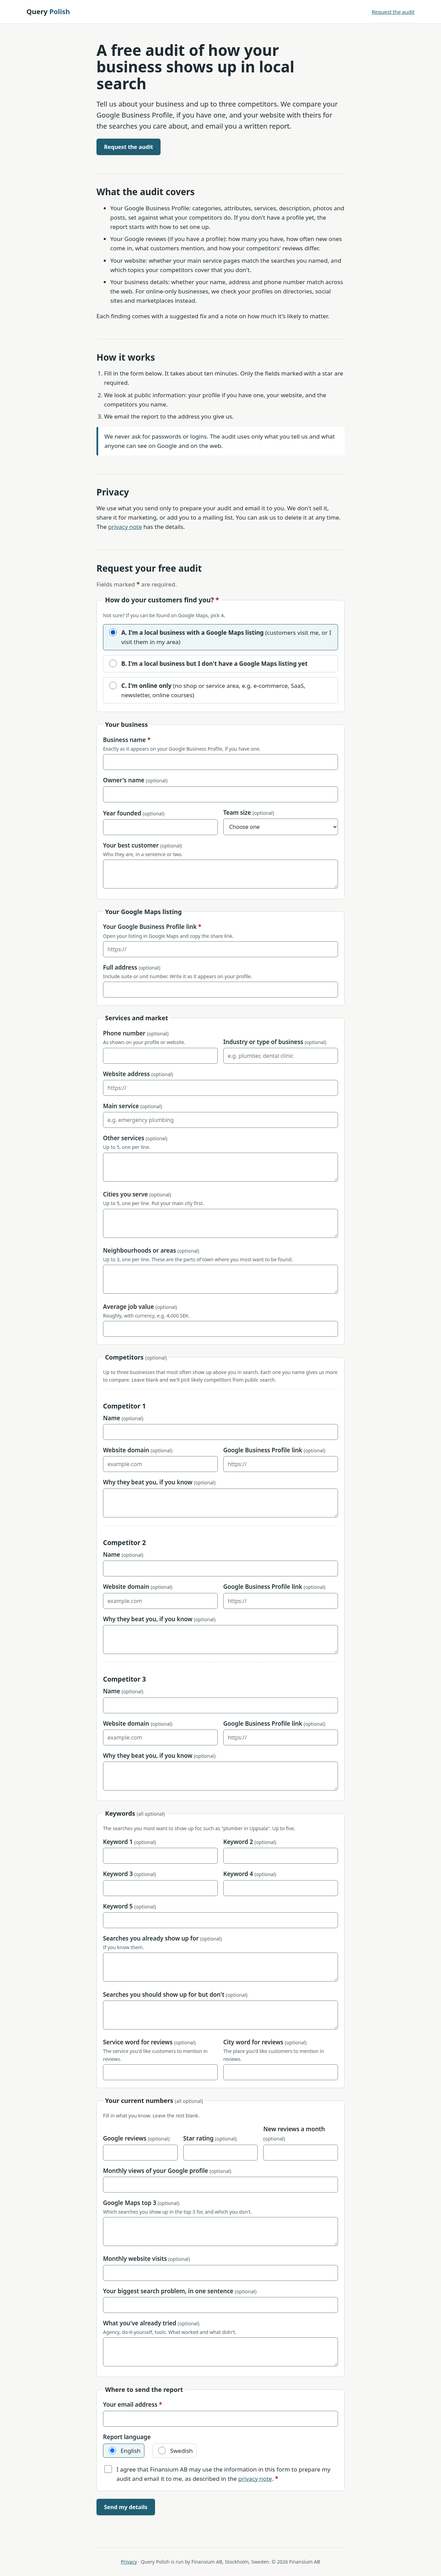
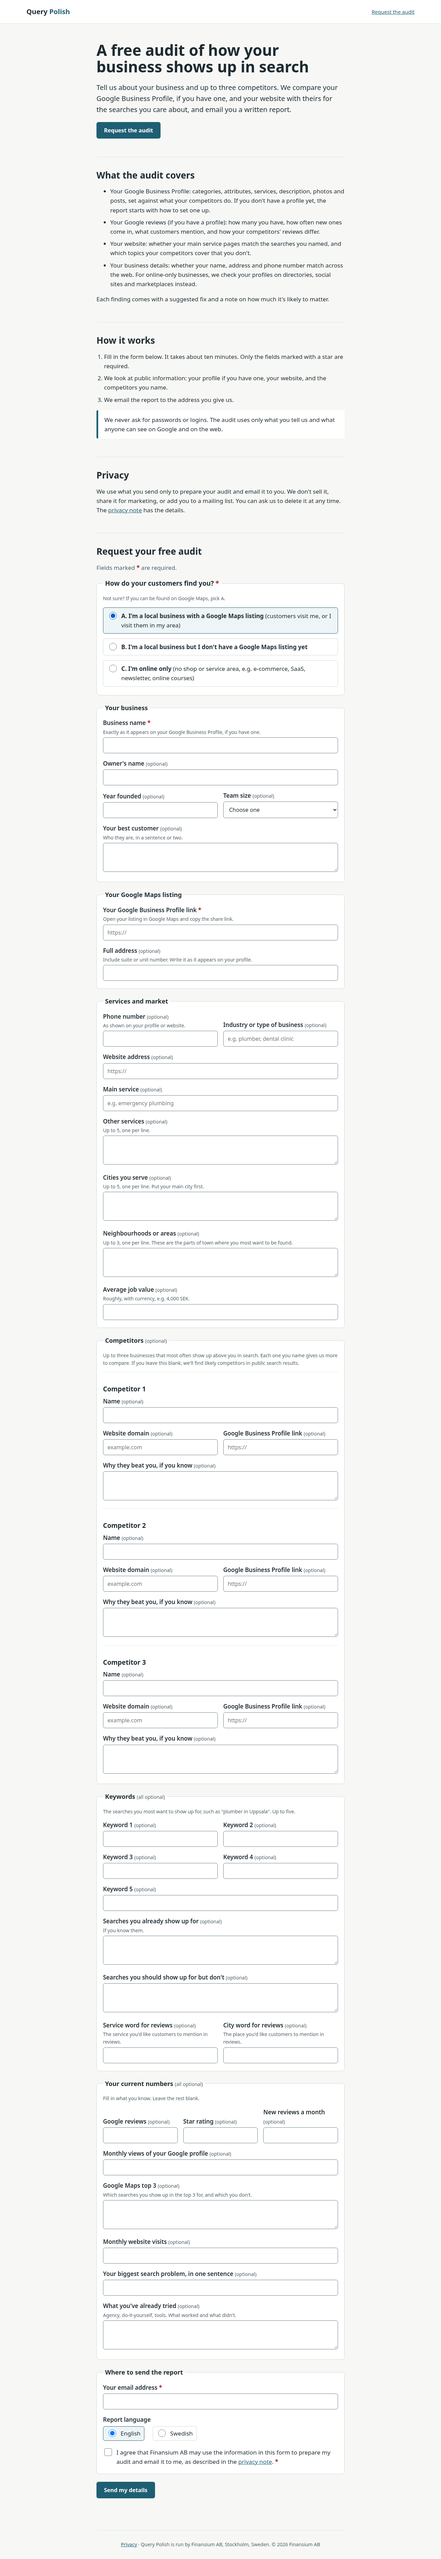
Drop 'local' from title/H1/meta (Warren); final competitors hint (Zinsser)

diff --git a/docs/index.html b/docs/index.html
@@ -3,8 +3,8 @@
 <head>
 <meta charset="utf-8">
 <meta name="viewport" content="width=device-width,initial-scale=1">
-<title>Query Polish: a free local search audit</title>
-<meta name="description" content="A free audit of how your business shows up in Google Maps and local search, compared with up to three competitors you choose. The report comes by email.">
+<title>Query Polish: a free search audit for your business</title>
+<meta name="description" content="A free audit of how your business shows up in Google search and Google Maps, compared with up to three competitors you choose. The report comes by email.">
 <link rel="canonical" href="https://querypolish.com/">
 <link rel="icon" href="/favicon.svg" type="image/svg+xml">
 <script>document.documentElement.className="js"</script>
@@ -15,7 +15,7 @@
 <header><a class="logo" href="/">Query <span>Polish</span></a><a class="navlink" href="#audit">Request the audit</a></header>
 <main id="main">
 <section>
-<h1>A free audit of how your business shows up in local search</h1>
+<h1>A free audit of how your business shows up in search</h1>
 <p class="lead">Tell us about your business and up to three competitors. We compare your Google Business Profile, if you have one, and your website with theirs for the searches you care about, and email you a written report.</p>
 <p><a class="btn" href="#audit">Request the audit</a></p>
 </section>
@@ -57,7 +57,7 @@
 <fieldset data-branch="local_no_listing"><legend>Where you work</legend><p class="hint nojs-only">Fill in this part if you picked B above.</p><div class="f"><label for="address-or-service-area">Business address or service area <span class="req req-js" aria-hidden="true">*</span><span class="opt nojs-only">(required for this answer)</span><span class="hint" id="address-or-service-area-h">Your street address if customers visit you, or the area you cover if you visit them.</span></label><input id="address-or-service-area" name="Address or service area" type="text" data-breq aria-describedby="address-or-service-area-h" autocomplete="street-address"></div></fieldset>
 <fieldset data-branch="local_listing local_no_listing"><legend>Services and market</legend><p class="hint nojs-only">Fill in this part if you picked A or B above.</p><div class="grid2"><div class="f"><label for="phone">Phone number <span class="opt">(optional)</span><span class="hint" id="phone-h">As shown on your profile or website.</span></label><input id="phone" name="Phone" type="tel" aria-describedby="phone-h" autocomplete="tel"></div><div class="f"><label for="industry">Industry or type of business <span class="opt">(optional)</span></label><input id="industry" name="Industry" type="text" placeholder="e.g. plumber, dental clinic"></div></div><div class="f"><label for="website">Website address <span class="opt">(optional)</span></label><input id="website" name="Website" type="url" autocomplete="url" placeholder="https://"></div><div class="f"><label for="main-service">Main service <span class="opt">(optional)</span></label><input id="main-service" name="Main service" type="text" placeholder="e.g. emergency plumbing"></div><div class="f"><label for="other-services">Other services <span class="opt">(optional)</span><span class="hint" id="other-services-h">Up to 5, one per line.</span></label><textarea id="other-services" name="Other services" aria-describedby="other-services-h"></textarea></div><div class="f"><label for="cities-served">Cities you serve <span class="opt">(optional)</span><span class="hint" id="cities-served-h">Up to 5, one per line. Put your main city first.</span></label><textarea id="cities-served" name="Cities served" aria-describedby="cities-served-h"></textarea></div><div data-branch="local_listing"><div class="f"><label for="neighbourhoods">Neighbourhoods or areas <span class="opt">(optional)</span><span class="hint" id="neighbourhoods-h">Up to 3, one per line. These are the parts of town where you most want to be found.</span></label><textarea id="neighbourhoods" name="Neighbourhoods" aria-describedby="neighbourhoods-h"></textarea></div></div><div class="f"><label for="average-job-value">Average job value <span class="opt">(optional)</span><span class="hint" id="average-job-value-h">Roughly, with currency, e.g. 4,000 SEK.</span></label><input id="average-job-value" name="Average job value" type="text" aria-describedby="average-job-value-h"></div></fieldset>
 <fieldset data-branch="online_only"><legend>Your online business</legend><p class="hint nojs-only">Fill in this part if you picked C above.</p><div class="f"><label for="website-online">Website address <span class="req req-js" aria-hidden="true">*</span><span class="opt nojs-only">(required for this answer)</span></label><input id="website-online" name="Website (online)" type="url" data-breq autocomplete="url" placeholder="https://"></div><div class="f"><label for="what-you-sell">What you sell <span class="opt">(optional)</span><span class="hint" id="what-you-sell-h">Your main products or services, in a sentence or two.</span></label><textarea id="what-you-sell" name="What you sell" aria-describedby="what-you-sell-h"></textarea></div><div class="grid2"><div class="f"><label for="main-country">Main country <span class="opt">(optional)</span><span class="hint" id="main-country-h">Where most of your customers are.</span></label><input id="main-country" name="Main country" type="text" aria-describedby="main-country-h" autocomplete="country-name"></div><div class="f"><label for="main-language">Main language <span class="opt">(optional)</span><span class="hint" id="main-language-h">The language your customers search in.</span></label><input id="main-language" name="Main language" type="text" aria-describedby="main-language-h"></div></div></fieldset>
-<fieldset><legend>Competitors <span class="opt">(optional)</span></legend><p class="hint">Up to three businesses that most often show up above you in search. Each one you name gives us more to compare. Leave blank and we'll pick likely competitors from public search.</p><div class="comp"><h3>Competitor 1</h3><div class="f"><label for="competitor-1-name">Name <span class="opt">(optional)</span></label><input id="competitor-1-name" name="Competitor 1 name" type="text"></div><div class="grid2"><div class="f"><label for="competitor-1-domain">Website domain <span class="opt">(optional)</span></label><input id="competitor-1-domain" name="Competitor 1 domain" type="text" placeholder="example.com"></div><div data-branch="local_listing"><div class="f"><label for="competitor-1-gbp-url">Google Business Profile link <span class="opt">(optional)</span></label><input id="competitor-1-gbp-url" name="Competitor 1 GBP URL" type="url" placeholder="https://"></div></div></div><div class="f"><label for="competitor-1-why-they-beat-you">Why they beat you, if you know <span class="opt">(optional)</span></label><textarea id="competitor-1-why-they-beat-you" name="Competitor 1 why they beat you"></textarea></div></div><div class="comp"><h3>Competitor 2</h3><div class="f"><label for="competitor-2-name">Name <span class="opt">(optional)</span></label><input id="competitor-2-name" name="Competitor 2 name" type="text"></div><div class="grid2"><div class="f"><label for="competitor-2-domain">Website domain <span class="opt">(optional)</span></label><input id="competitor-2-domain" name="Competitor 2 domain" type="text" placeholder="example.com"></div><div data-branch="local_listing"><div class="f"><label for="competitor-2-gbp-url">Google Business Profile link <span class="opt">(optional)</span></label><input id="competitor-2-gbp-url" name="Competitor 2 GBP URL" type="url" placeholder="https://"></div></div></div><div class="f"><label for="competitor-2-why-they-beat-you">Why they beat you, if you know <span class="opt">(optional)</span></label><textarea id="competitor-2-why-they-beat-you" name="Competitor 2 why they beat you"></textarea></div></div><div class="comp"><h3>Competitor 3</h3><div class="f"><label for="competitor-3-name">Name <span class="opt">(optional)</span></label><input id="competitor-3-name" name="Competitor 3 name" type="text"></div><div class="grid2"><div class="f"><label for="competitor-3-domain">Website domain <span class="opt">(optional)</span></label><input id="competitor-3-domain" name="Competitor 3 domain" type="text" placeholder="example.com"></div><div data-branch="local_listing"><div class="f"><label for="competitor-3-gbp-url">Google Business Profile link <span class="opt">(optional)</span></label><input id="competitor-3-gbp-url" name="Competitor 3 GBP URL" type="url" placeholder="https://"></div></div></div><div class="f"><label for="competitor-3-why-they-beat-you">Why they beat you, if you know <span class="opt">(optional)</span></label><textarea id="competitor-3-why-they-beat-you" name="Competitor 3 why they beat you"></textarea></div></div></fieldset>
+<fieldset><legend>Competitors <span class="opt">(optional)</span></legend><p class="hint">Up to three businesses that most often show up above you in search. Each one you name gives us more to compare. If you leave this blank, we'll find likely competitors in public search results.</p><div class="comp"><h3>Competitor 1</h3><div class="f"><label for="competitor-1-name">Name <span class="opt">(optional)</span></label><input id="competitor-1-name" name="Competitor 1 name" type="text"></div><div class="grid2"><div class="f"><label for="competitor-1-domain">Website domain <span class="opt">(optional)</span></label><input id="competitor-1-domain" name="Competitor 1 domain" type="text" placeholder="example.com"></div><div data-branch="local_listing"><div class="f"><label for="competitor-1-gbp-url">Google Business Profile link <span class="opt">(optional)</span></label><input id="competitor-1-gbp-url" name="Competitor 1 GBP URL" type="url" placeholder="https://"></div></div></div><div class="f"><label for="competitor-1-why-they-beat-you">Why they beat you, if you know <span class="opt">(optional)</span></label><textarea id="competitor-1-why-they-beat-you" name="Competitor 1 why they beat you"></textarea></div></div><div class="comp"><h3>Competitor 2</h3><div class="f"><label for="competitor-2-name">Name <span class="opt">(optional)</span></label><input id="competitor-2-name" name="Competitor 2 name" type="text"></div><div class="grid2"><div class="f"><label for="competitor-2-domain">Website domain <span class="opt">(optional)</span></label><input id="competitor-2-domain" name="Competitor 2 domain" type="text" placeholder="example.com"></div><div data-branch="local_listing"><div class="f"><label for="competitor-2-gbp-url">Google Business Profile link <span class="opt">(optional)</span></label><input id="competitor-2-gbp-url" name="Competitor 2 GBP URL" type="url" placeholder="https://"></div></div></div><div class="f"><label for="competitor-2-why-they-beat-you">Why they beat you, if you know <span class="opt">(optional)</span></label><textarea id="competitor-2-why-they-beat-you" name="Competitor 2 why they beat you"></textarea></div></div><div class="comp"><h3>Competitor 3</h3><div class="f"><label for="competitor-3-name">Name <span class="opt">(optional)</span></label><input id="competitor-3-name" name="Competitor 3 name" type="text"></div><div class="grid2"><div class="f"><label for="competitor-3-domain">Website domain <span class="opt">(optional)</span></label><input id="competitor-3-domain" name="Competitor 3 domain" type="text" placeholder="example.com"></div><div data-branch="local_listing"><div class="f"><label for="competitor-3-gbp-url">Google Business Profile link <span class="opt">(optional)</span></label><input id="competitor-3-gbp-url" name="Competitor 3 GBP URL" type="url" placeholder="https://"></div></div></div><div class="f"><label for="competitor-3-why-they-beat-you">Why they beat you, if you know <span class="opt">(optional)</span></label><textarea id="competitor-3-why-they-beat-you" name="Competitor 3 why they beat you"></textarea></div></div></fieldset>
 <fieldset><legend>Keywords <span class="opt">(all optional)</span></legend><p class="hint" id="kw-h">The searches you most want to show up for, such as "plumber in Uppsala". Up to five.</p><div class="grid2"><div class="f"><label for="keyword-1">Keyword 1 <span class="opt">(optional)</span></label><input id="keyword-1" name="Keyword 1" type="text"></div><div class="f"><label for="keyword-2">Keyword 2 <span class="opt">(optional)</span></label><input id="keyword-2" name="Keyword 2" type="text"></div></div><div class="grid2"><div class="f"><label for="keyword-3">Keyword 3 <span class="opt">(optional)</span></label><input id="keyword-3" name="Keyword 3" type="text"></div><div class="f"><label for="keyword-4">Keyword 4 <span class="opt">(optional)</span></label><input id="keyword-4" name="Keyword 4" type="text"></div></div><div class="f"><label for="keyword-5">Keyword 5 <span class="opt">(optional)</span></label><input id="keyword-5" name="Keyword 5" type="text"></div><div class="f"><label for="keywords-you-rank-for-now">Searches you already show up for <span class="opt">(optional)</span><span class="hint" id="keywords-you-rank-for-now-h">If you know them.</span></label><textarea id="keywords-you-rank-for-now" name="Keywords you rank for now" aria-describedby="keywords-you-rank-for-now-h"></textarea></div><div class="f"><label for="keywords-you-should-rank-for">Searches you should show up for but don't <span class="opt">(optional)</span></label><textarea id="keywords-you-should-rank-for" name="Keywords you should rank for"></textarea></div><div data-branch="local_listing"><div class="grid2"><div class="f"><label for="review-service-keyword">Service word for reviews <span class="opt">(optional)</span><span class="hint" id="review-service-keyword-h">The service you'd like customers to mention in reviews.</span></label><input id="review-service-keyword" name="Review service keyword" type="text" aria-describedby="review-service-keyword-h"></div><div class="f"><label for="review-city-keyword">City word for reviews <span class="opt">(optional)</span><span class="hint" id="review-city-keyword-h">The place you'd like customers to mention in reviews.</span></label><input id="review-city-keyword" name="Review city keyword" type="text" aria-describedby="review-city-keyword-h"></div></div></div></fieldset>
 <fieldset><legend>Your current numbers <span class="opt">(all optional)</span></legend><p class="hint">Fill in what you know. Leave the rest blank.</p><div data-branch="local_listing"><div class="grid3"><div class="f"><label for="google-reviews-total">Google reviews <span class="opt">(optional)</span></label><input id="google-reviews-total" name="Google reviews total" type="number" min="0" inputmode="numeric"></div><div class="f"><label for="star-rating">Star rating <span class="opt">(optional)</span></label><input id="star-rating" name="Star rating" type="number" min="1" max="5" step="0.1" inputmode="decimal"></div><div class="f"><label for="new-reviews-per-month">New reviews a month <span class="opt">(optional)</span></label><input id="new-reviews-per-month" name="New reviews per month" type="number" min="0" inputmode="numeric"></div></div><div class="f"><label for="monthly-profile-views">Monthly views of your Google profile <span class="opt">(optional)</span></label><input id="monthly-profile-views" name="Monthly profile views" type="number" min="0" inputmode="numeric"></div><div class="f"><label for="map-pack-status">Google Maps top 3 <span class="opt">(optional)</span><span class="hint" id="map-pack-status-h">Which searches you show up in the top 3 for, and which you don't.</span></label><textarea id="map-pack-status" name="Map pack status" aria-describedby="map-pack-status-h"></textarea></div></div><div class="f"><label for="monthly-website-visits">Monthly website visits <span class="opt">(optional)</span></label><input id="monthly-website-visits" name="Monthly website visits" type="number" min="0" inputmode="numeric"></div><div class="f"><label for="biggest-seo-problem">Your biggest search problem, in one sentence <span class="opt">(optional)</span></label><input id="biggest-seo-problem" name="Biggest SEO problem" type="text"></div><div class="f"><label for="seo-already-tried">What you've already tried <span class="opt">(optional)</span><span class="hint" id="seo-already-tried-h">Agency, do-it-yourself, tools. What worked and what didn't.</span></label><textarea id="seo-already-tried" name="SEO already tried" aria-describedby="seo-already-tried-h"></textarea></div></fieldset>
 <fieldset><legend>Where to send the report</legend><div class="f"><label for="email">Your email address <span class="req" aria-hidden="true">*</span></label><input id="email" name="email" type="email" required autocomplete="email"></div><div class="f" role="radiogroup" aria-labelledby="lang-l"><span class="lbl" id="lang-l">Report language</span><div class="choices row"><label class="check" for="lang-en"><input id="lang-en" type="radio" name="report_language" value="English" checked><span>English</span></label><label class="check" for="lang-sv"><input id="lang-sv" type="radio" name="report_language" value="Swedish"><span>Swedish</span></label></div></div><div class="f"><label class="check" for="consent"><input id="consent" name="Consent" type="checkbox" value="Yes" required><span>I agree that Finansium AB may use the information in this form to prepare my audit and email it to me, as described in the <a href="/privacy/">privacy note</a>. <span class="req" aria-hidden="true">*</span></span></label></div></fieldset>

diff --git a/evidence/copy-diff-branching.md b/evidence/copy-diff-branching.md
@@ -14,7 +14,7 @@ Every user-visible text change. Zinsser must re-gate each item marked **NEW** or
 | 7 | How it works, step 2 | We look at public information: your profile, your website, and the three competitors you name. | We look at public information: your profile **if you have one**, your website, and the competitors you name. | Optional profile, optional competitors |
 
 These stay as they were on purpose, so please confirm them:
-- The title "Query Polish: a free local search audit" and the H1 "A free audit of how your business shows up in local search". Both are now arguably inaccurate for branch C (online only), but changing the positioning is Warren's call, so I've flagged it rather than changed it.
+- The title "Query Polish: a free search audit for your business" and the H1 "A free audit of how your business shows up in search". Both are now arguably inaccurate for branch C (online only), but changing the positioning is Warren's call, so I've flagged it rather than changed it.
 - "It takes about ten minutes. Only the fields marked with a star are required." Still true (fewer required fields, so if anything it's quicker).
 
 ## 2. Form: new question 1 (all **NEW**)
@@ -39,7 +39,7 @@ These stay as they were on purpose, so please confirm them:
 | 16 | Legend (C) | – | **Your online business** | NEW |
 | 17 | Fields (C) | – | **Website address** * · **What you sell** (hint: **Your main products or services, in a sentence or two.**) · **Main country** (hint: **Where most of your customers are.**) · **Main language** (hint: **The language your customers search in.**) | NEW |
 | 18 | Competitors legend | Three competitors | **Competitors** (optional) | CHANGED |
-| 19 | Competitors hint | The three businesses that most often show up above you in search. We need each one's Google Business Profile link and website. | **Up to three businesses that most often show up above you in search. Each one you name gives us more to compare. Leave blank and we'll pick likely competitors from public search.** | CHANGED (Warren's requested hint) |
+| 19 | Competitors hint | The three businesses that most often show up above you in search. We need each one's Google Business Profile link and website. | **Up to three businesses that most often show up above you in search. Each one you name gives us more to compare. If you leave this blank, we'll find likely competitors in public search results.** | CHANGED (Warren's requested hint) |
 | 20 | Competitor N: Google Business Profile link / Website domain | both required *, link listed first | both optional, domain first; the link appears only for answer A | CHANGED |
 | 21 | Keywords legend | Keywords | Keywords **(all optional)** | CHANGED |
 | 22 | Keywords hint | The searches you most want to show up for, such as "plumber in Uppsala". Three are required, five are better. | The searches you most want to show up for, such as "plumber in Uppsala". **Up to five.** | CHANGED |
